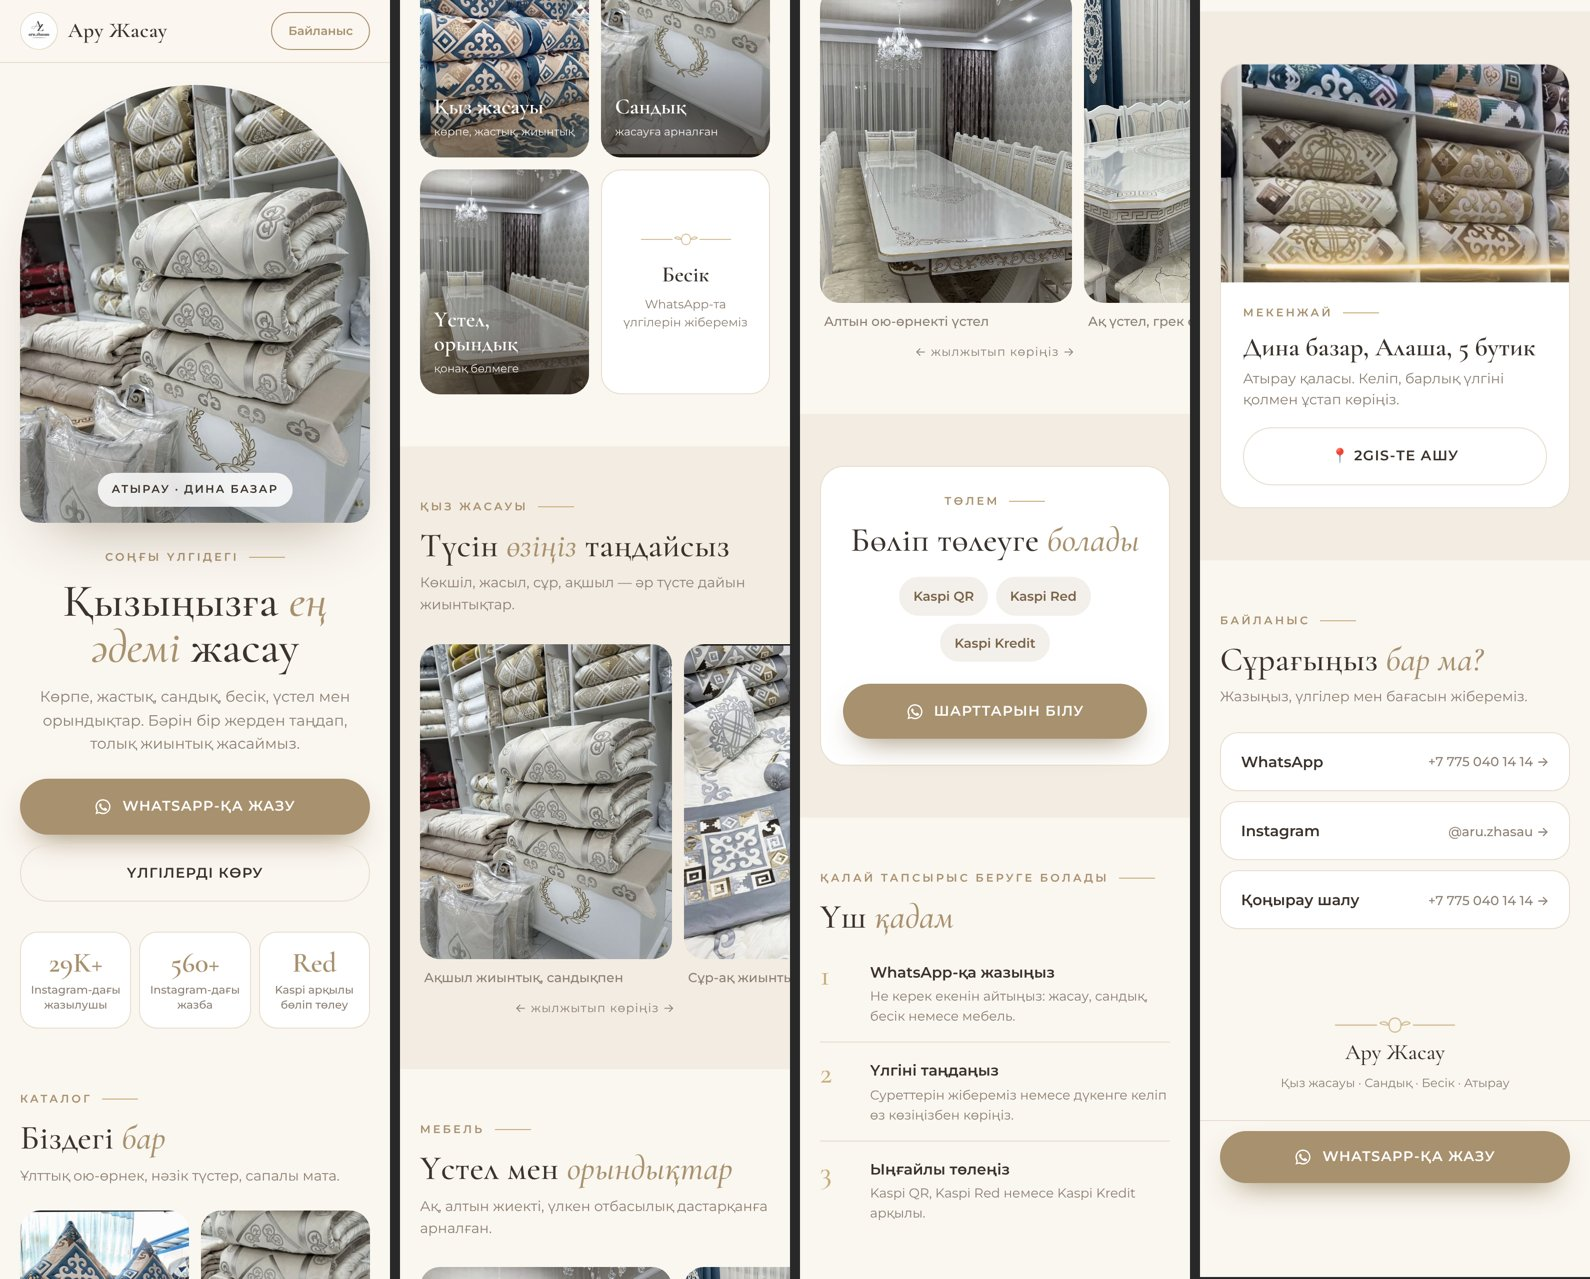
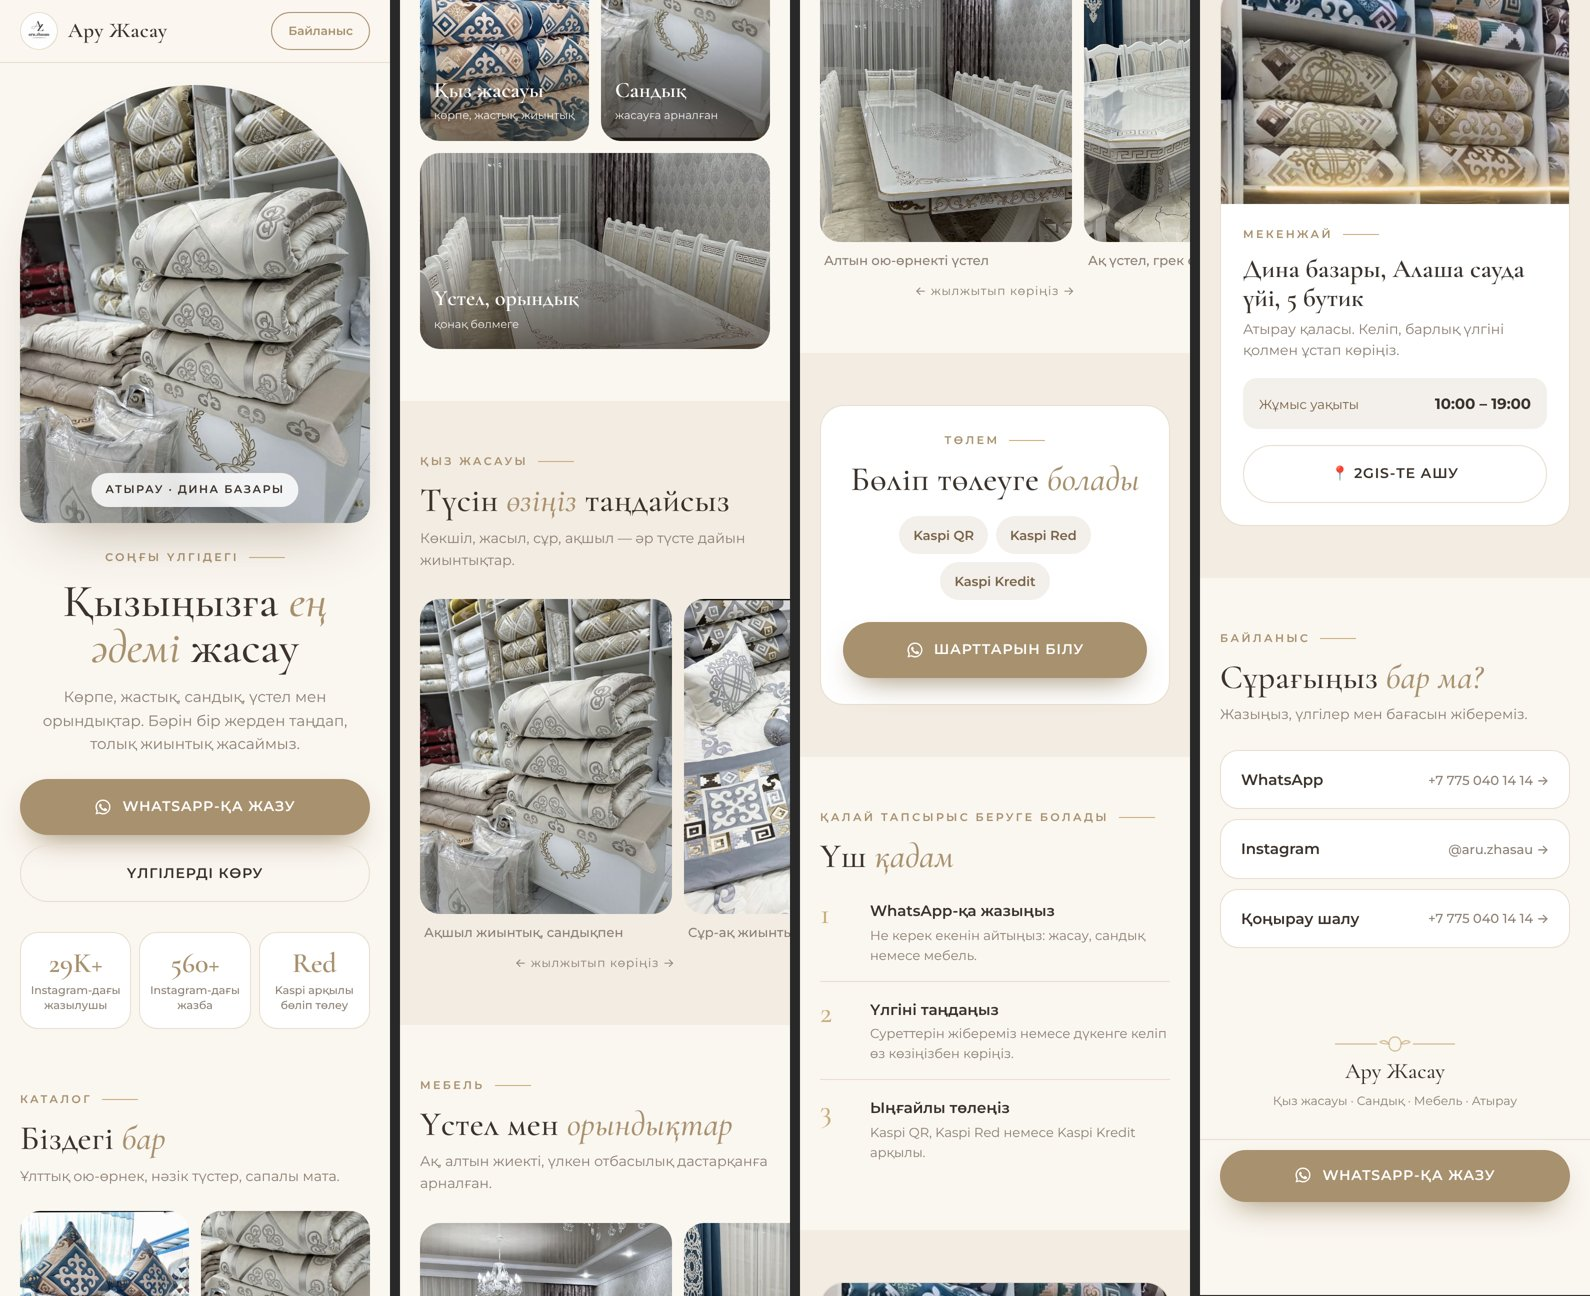
Ару Жасау сайты: бесік алынды, мекенжай мен жұмыс уақыты
Claude-Session: https://claude.ai/code/session_01DyLs1E7qTUMRBtzJ5xYPxP

diff --git a/Сайттар/aru-zhasau/index.html b/Сайттар/aru-zhasau/index.html
@@ -3,11 +3,11 @@
 <head>
 <meta charset="utf-8">
 <meta name="viewport" content="width=device-width, initial-scale=1, viewport-fit=cover">
-<title>Ару Жасау — қыз жасауы, сандық, бесік | Атырау</title>
-<meta name="description" content="Соңғы үлгідегі қыз жасауы, сандық, бесік, үстел мен орындықтар. Атырау, Дина базар. Kaspi Red, Kaspi Kredit арқылы бөліп төлеу.">
+<title>Ару Жасау — қыз жасауы, сандық, мебель | Атырау</title>
+<meta name="description" content="Соңғы үлгідегі қыз жасауы, сандық, үстел мен орындықтар. Атырау, Дина базары, Алаша сауда үйі. Kaspi Red, Kaspi Kredit арқылы бөліп төлеу.">
 <meta name="theme-color" content="#FAF6F0">
 <meta property="og:title" content="Ару Жасау — қыз жасауы | Атырау">
-<meta property="og:description" content="Соңғы үлгідегі қыз жасауы, сандық, бесік, мебель. Kaspi Red бар.">
+<meta property="og:description" content="Соңғы үлгідегі қыз жасауы, сандық, мебель. Kaspi Red бар.">
 <meta property="og:image" content="hero.jpg">
 <link rel="icon" href="logo.png">
 <link rel="preconnect" href="https://fonts.googleapis.com">
@@ -68,6 +68,10 @@
   .cat .t{position:absolute;left:0;right:0;bottom:0;padding:34px 14px 14px;color:#fff;background:linear-gradient(transparent,rgba(40,30,20,.65))}
   .cat .t b{font-family:"Cormorant Garamond",serif;font-weight:600;font-size:22px;display:block;line-height:1.1}
   .cat .t small{font-size:11px;opacity:.9}
+  .cat.wide{grid-column:1/-1}
+  .cat.wide img{aspect-ratio:16/9;object-position:50% 60%}
+  .hours{display:flex;justify-content:space-between;align-items:center;padding:14px 16px;border-radius:14px;background:var(--soft);margin-bottom:16px;font-size:13px;color:#7A6448}
+  .hours b{font-size:15px;color:var(--ink)}
   .cat.plain{display:flex;flex-direction:column;justify-content:center;align-items:center;text-align:center;padding:18px;border:1px solid var(--line);background:var(--card);color:var(--ink)}
   .cat.plain b{font-family:"Cormorant Garamond",serif;font-weight:600;font-size:22px}
   .cat.plain small{font-size:12px;color:var(--muted);margin-top:4px}
@@ -131,10 +135,10 @@
 
 <header class="hero">
   <div class="wrap">
-    <div class="pic rv"><img src="hero.jpg" alt="Қыз жасауы: көрпелер, жастықтар, сандық"><span class="tagline">Атырау · Дина базар</span></div>
+    <div class="pic rv"><img src="hero.jpg" alt="Қыз жасауы: көрпелер, жастықтар, сандық"><span class="tagline">Атырау · Дина базары</span></div>
     <div class="kicker rv" style="justify-content:center">Соңғы үлгідегі</div>
     <h1 class="rv">Қызыңызға <i>ең әдемі</i> жасау</h1>
-    <p class="rv">Көрпе, жастық, сандық, бесік, үстел мен орындықтар. Бәрін бір жерден таңдап, толық жиынтық жасаймыз.</p>
+    <p class="rv">Көрпе, жастық, сандық, үстел мен орындықтар. Бәрін бір жерден таңдап, толық жиынтық жасаймыз.</p>
     <a class="btn rv" href="https://wa.me/77750401414?text=%D0%A1%D3%99%D0%BB%D0%B5%D0%BC%D0%B5%D1%82%D1%81%D1%96%D0%B7%20%D0%B1%D0%B5!%20%D0%A1%D0%B0%D0%B9%D1%82%D1%82%D0%B0%D0%BD%20%D0%B6%D0%B0%D0%B7%D1%8B%D0%BF%20%D0%BE%D1%82%D1%8B%D1%80%D0%BC%D1%8B%D0%BD.%20%D2%9A%D1%8B%D0%B7%20%D0%B6%D0%B0%D1%81%D0%B0%D1%83%D1%8B%20%D1%82%D1%83%D1%80%D0%B0%D0%BB%D1%8B%20%D0%B1%D1%96%D0%BB%D0%B3%D1%96%D0%BC%20%D0%BA%D0%B5%D0%BB%D0%B5%D0%B4%D1%96."><svg><use href="#wa"/></svg>WhatsApp-қа жазу</a>
     <a class="btn ghost rv" href="#catalog">Үлгілерді көру</a>
     <div class="feats">
@@ -153,8 +157,7 @@
     <div class="cats">
       <a class="cat rv" href="#zhasau"><img src="blue.jpg" alt="Көрпелер"><div class="t"><b>Қыз жасауы</b><small>көрпе, жастық, жиынтық</small></div></a>
       <a class="cat rv" href="#zhasau"><img src="sandyk.jpg" alt="Сандық" style="object-position:50% 80%"><div class="t"><b>Сандық</b><small>жасауға арналған</small></div></a>
-      <a class="cat rv" href="#mebel"><img src="table3.jpg" alt="Үстел мен орындықтар"><div class="t"><b>Үстел, орындық</b><small>қонақ бөлмеге</small></div></a>
-      <a class="cat plain rv" href="#contact"><svg class="orn" width="90" height="16"><use href="#orn"/></svg><b style="margin-top:10px">Бесік</b><small>WhatsApp-та үлгілерін жібереміз</small></a>
+      <a class="cat wide rv" href="#mebel"><img src="table3.jpg" alt="Үстел мен орындықтар"><div class="t"><b>Үстел, орындық</b><small>қонақ бөлмеге</small></div></a>
     </div>
   </div>
 </section>
@@ -206,7 +209,7 @@
   <div class="wrap">
     <div class="kicker rv">Қалай тапсырыс беруге болады</div>
     <h2 class="rv">Үш <i>қадам</i></h2>
-    <div class="step rv"><div class="n">1</div><div><h3>WhatsApp-қа жазыңыз</h3><p>Не керек екенін айтыңыз: жасау, сандық, бесік немесе мебель.</p></div></div>
+    <div class="step rv"><div class="n">1</div><div><h3>WhatsApp-қа жазыңыз</h3><p>Не керек екенін айтыңыз: жасау, сандық немесе мебель.</p></div></div>
     <div class="step rv"><div class="n">2</div><div><h3>Үлгіні таңдаңыз</h3><p>Суреттерін жібереміз немесе дүкенге келіп өз көзіңізбен көріңіз.</p></div></div>
     <div class="step rv"><div class="n">3</div><div><h3>Ыңғайлы төлеңіз</h3><p>Kaspi QR, Kaspi Red немесе Kaspi Kredit арқылы.</p></div></div>
   </div>
@@ -218,8 +221,9 @@
       <img src="shelves.jpg" alt="Дүкен" loading="lazy" style="object-position:50% 30%">
       <div class="in">
         <div class="kicker">Мекенжай</div>
-        <h3>Дина базар, Алаша, 5 бутик</h3>
+        <h3>Дина базары, Алаша сауда үйі, 5 бутик</h3>
         <p>Атырау қаласы. Келіп, барлық үлгіні қолмен ұстап көріңіз.</p>
+        <div class="hours"><span>Жұмыс уақыты</span><b>10:00 – 19:00</b></div>
         <a class="btn ghost" style="margin-top:0" href="https://2gis.kz/atyrau/search/%D0%94%D0%B8%D0%BD%D0%B0%20%D0%B1%D0%B0%D0%B7%D0%B0%D1%80">📍 2GIS-те ашу</a>
       </div>
     </div>
@@ -242,7 +246,7 @@
 <footer>
   <svg class="orn" width="120" height="20"><use href="#orn"/></svg>
   <span class="serif">Ару Жасау</span>
-  Қыз жасауы · Сандық · Бесік · Атырау
+  Қыз жасауы · Сандық · Мебель · Атырау
 </footer>
 
 <div class="bar"><div class="wrap"><a class="btn" href="https://wa.me/77750401414?text=%D0%A1%D3%99%D0%BB%D0%B5%D0%BC%D0%B5%D1%82%D1%81%D1%96%D0%B7%20%D0%B1%D0%B5!%20%D0%A1%D0%B0%D0%B9%D1%82%D1%82%D0%B0%D0%BD%20%D0%B6%D0%B0%D0%B7%D1%8B%D0%BF%20%D0%BE%D1%82%D1%8B%D1%80%D0%BC%D1%8B%D0%BD."><svg><use href="#wa"/></svg>WhatsApp-қа жазу</a></div></div>
